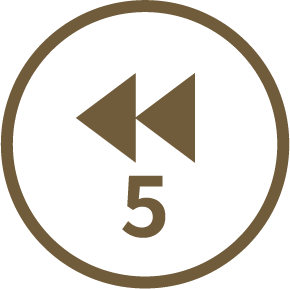
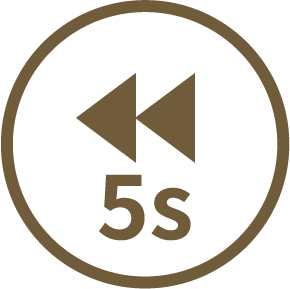
上げて

diff --git a/src/App.tsx b/src/App.tsx
@@ -78,8 +78,8 @@ function versionedAsset(path: string, version: string) {
 }
 
 const SCENE_ONE_VIDEO_VERSION = 'scene-1-20260604-2'
-const APP_CACHE_NAME = 'continue-tablet-v26'
-const STATIC_IMAGE_VERSION = 'images-20260604-7'
+const APP_CACHE_NAME = 'continue-tablet-v27'
+const STATIC_IMAGE_VERSION = 'images-20260604-8'
 const BACKUP_PHOTO_VERSION = 'backup-photos-20260604-1'
 const BACKUP_PHOTO_FOLDER = 'images/backup-photos'
 const BACKUP_PHOTO_MANIFEST_PATH = `${BACKUP_PHOTO_FOLDER}/backup-photos.json`

diff --git a/public/sw.js b/public/sw.js
@@ -1,5 +1,5 @@
-const CACHE_NAME = 'continue-tablet-v26'
-const STATIC_IMAGE_VERSION = 'images-20260604-7'
+const CACHE_NAME = 'continue-tablet-v27'
+const STATIC_IMAGE_VERSION = 'images-20260604-8'
 const BACKUP_PHOTO_VERSION = 'backup-photos-20260604-1'
 
 function versionedAsset(path) {
